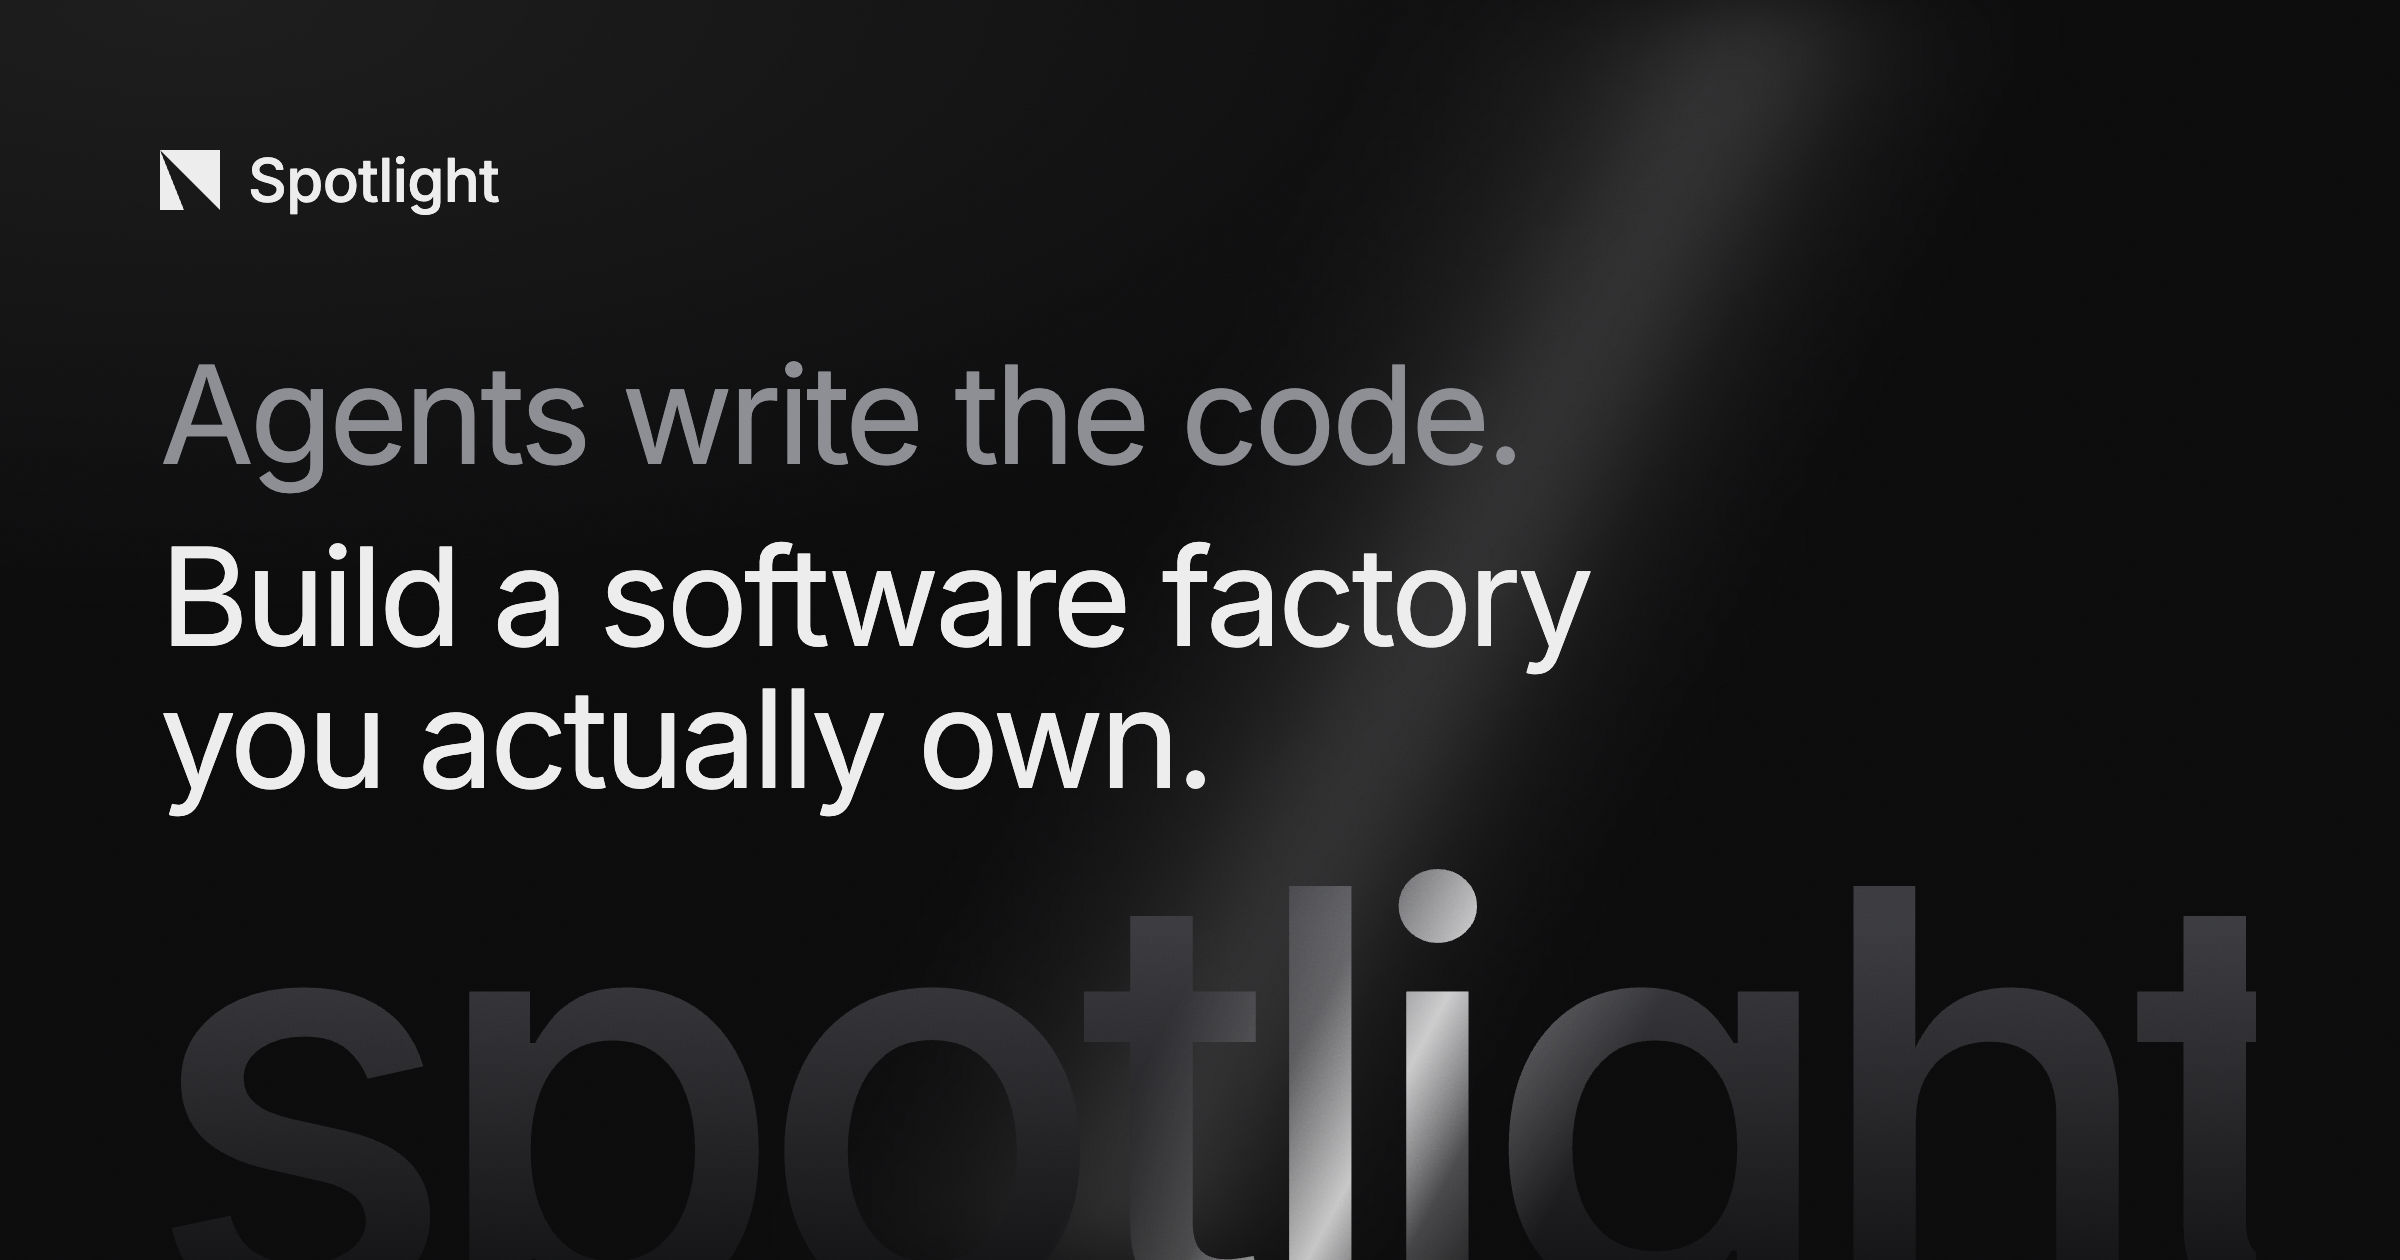
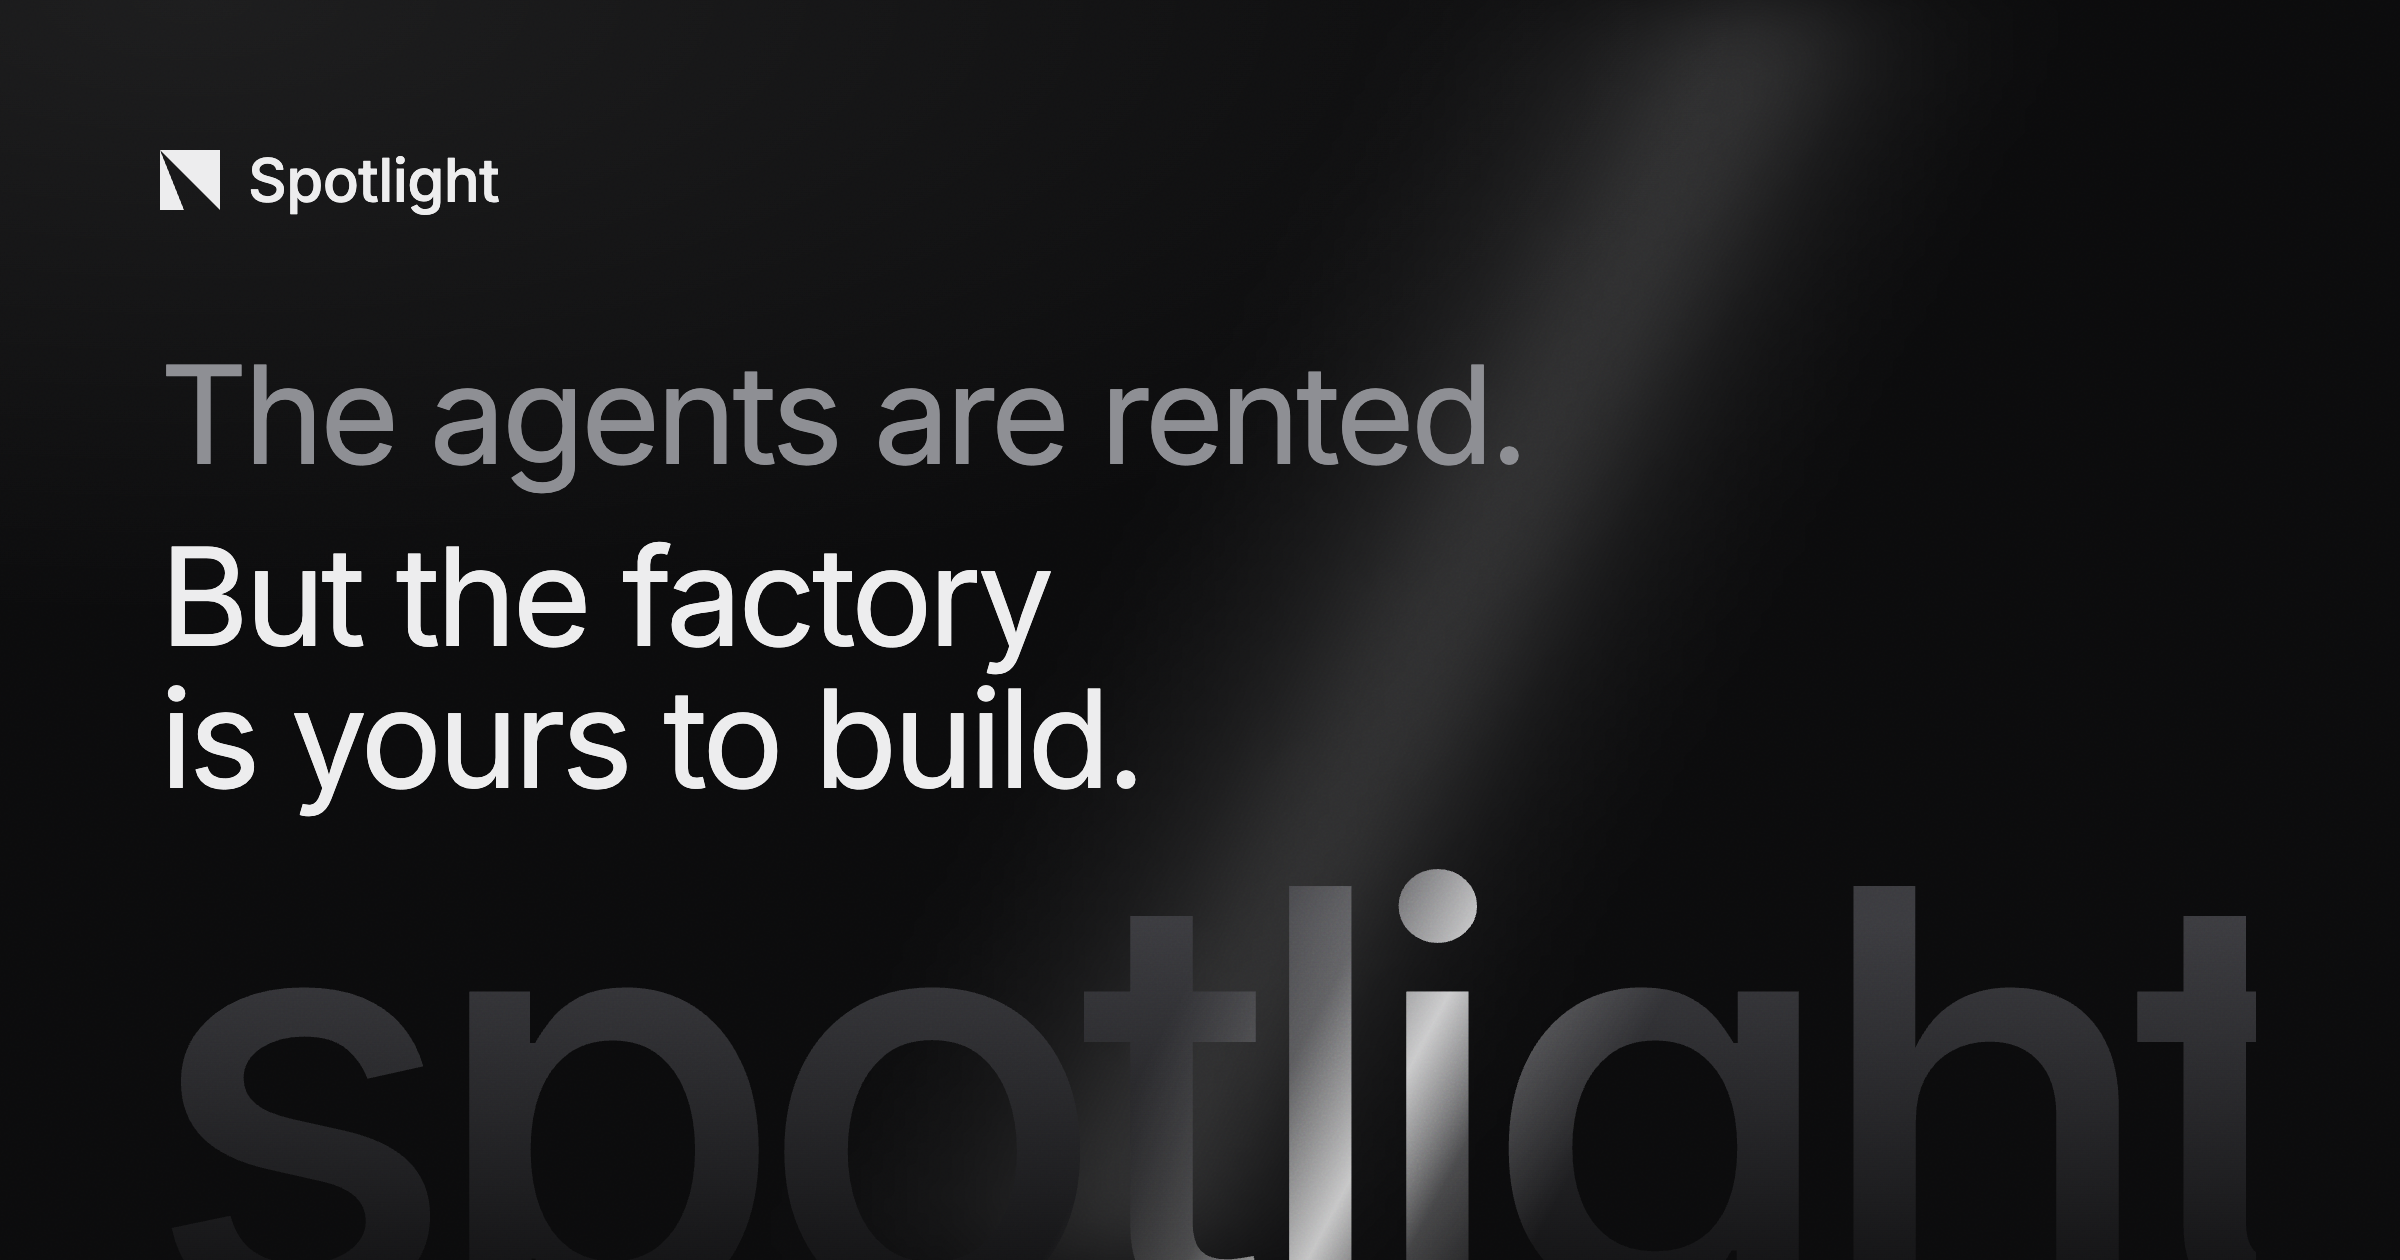
SPO-179: Change the tagline in the share image and the README title

Changed region(s): [[0.0625, 0.4333, 0.6562, 0.65], [0.0625, 0.2786, 0.625, 0.4024]]

diff --git a/README.md b/README.md
@@ -1,4 +1,4 @@
-![Spotlight: Agents write the code. Build a software factory you actually own.](.github/assets/og.png)
+![Spotlight: The agents are rented. But the factory is yours to build.](.github/assets/og.png)
 
 <div align="center">
   <h3>
